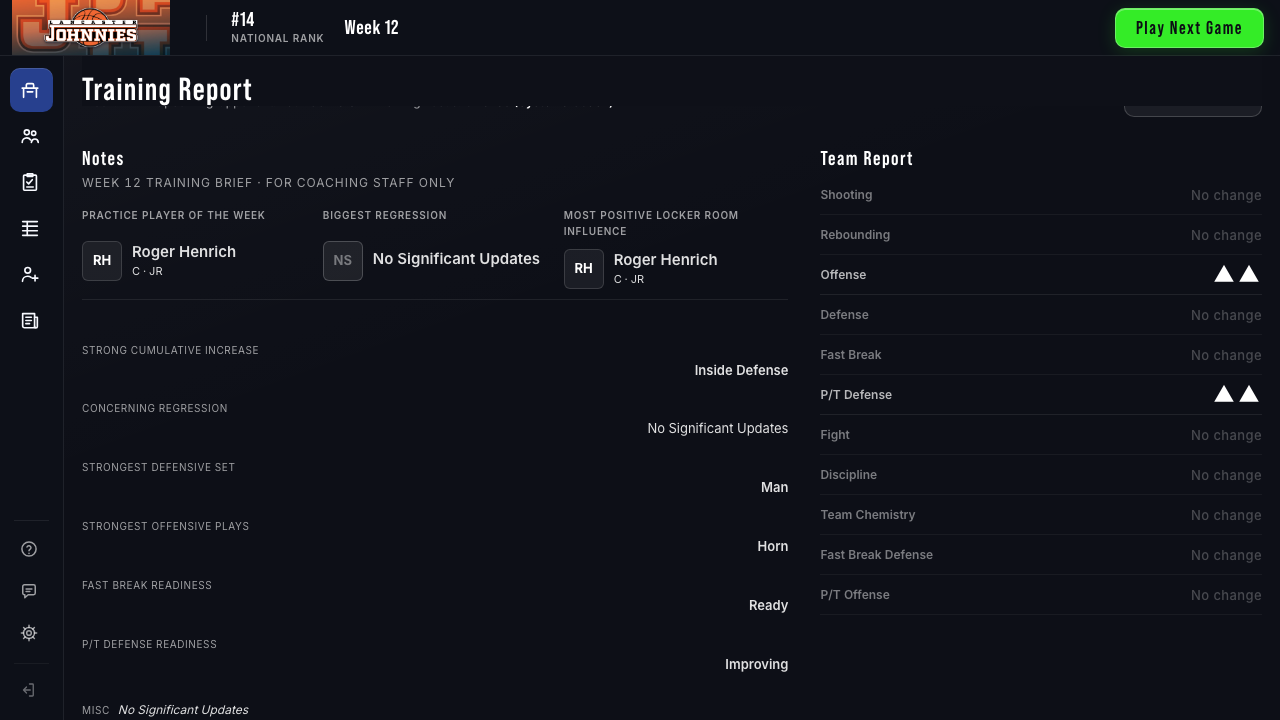
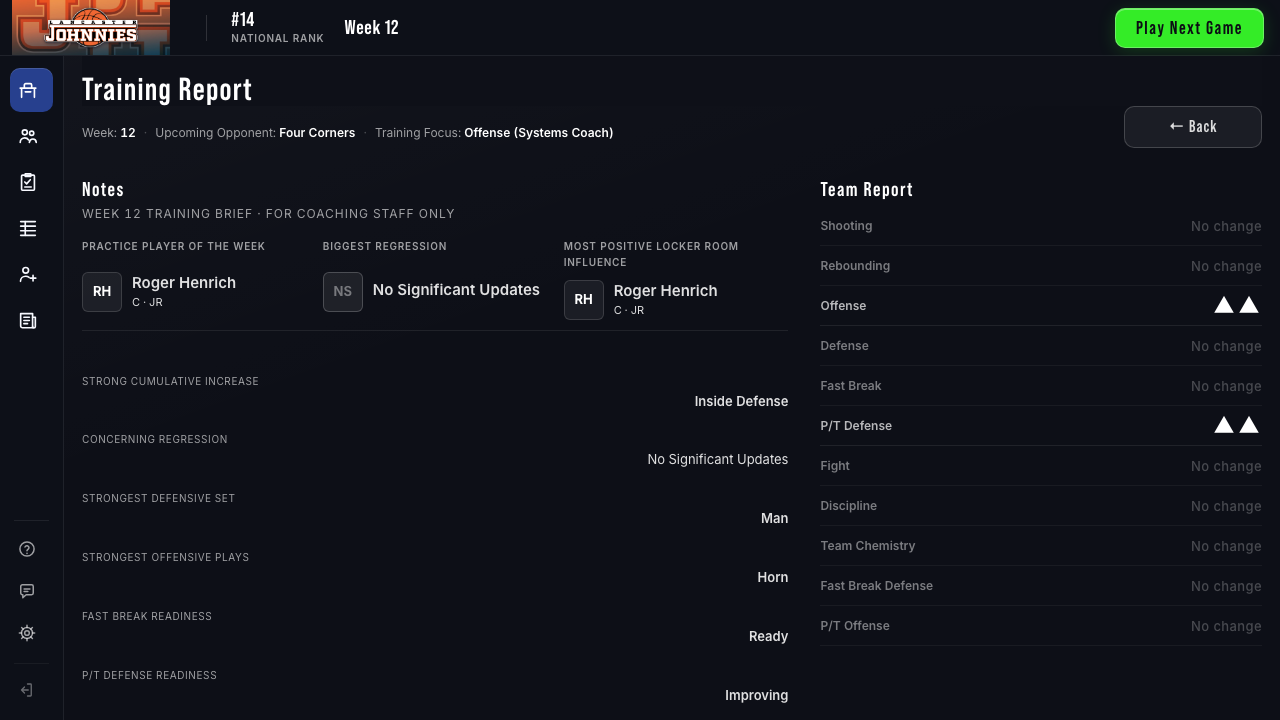
Neutralize PDG develops codes and retake Training Report shots at scroll 0.

diff --git a/tests/e2e/prep-modules-report.spec.js b/tests/e2e/prep-modules-report.spec.js
@@ -15,6 +15,17 @@ function alsoTokenShot(srcName, destName) {
   const src = path.join(OUT, srcName);
   if (fs.existsSync(src)) fs.copyFileSync(src, path.join(TOKENS_OUT, destName || srcName));
 }
+
+async function resetReportScroll(page) {
+  await page.evaluate(() => {
+    window.scrollTo(0, 0);
+    const view = document.getElementById('training-report-view');
+    if (view) view.scrollTop = 0;
+    const main = document.getElementById('gob-main');
+    if (main) main.scrollTop = 0;
+    document.querySelectorAll('.main, .main.scroll').forEach((el) => { el.scrollTop = 0; });
+  });
+}
 const HEADSHOT = fs.readFileSync(path.join(__dirname, '../../FrontEnd/static/images/players/generic_headshot.png'));
 const BEFORE = JSON.parse(fs.readFileSync(path.join(OUT, 'before-metrics.json'), 'utf8'));
 
@@ -237,12 +248,10 @@ test('Office drill-in: real data, Back, no Player Training highlight', async ({ 
   }
   const nitShots = path.join(__dirname, '../../reports/training-report-no-momentum');
   fs.mkdirSync(nitShots, { recursive: true });
-  await page.locator('#training-report-view .team-section').screenshot({
-    path: path.join(nitShots, 'team-report-after-1280.png'),
-  });
   await expect(page.getByRole('button', { name: '← Back', exact: true })).toBeVisible();
   await expect(page.locator('#gob-subtabs .tb[data-tab="training-view"][aria-selected="true"]')).toHaveCount(0);
   await expect(page.locator('html')).not.toHaveClass(/gob-office/);
+  await resetReportScroll(page);
   await page.screenshot({ path: path.join(OUT, 'training-report-office-1280.png') });
   await page.screenshot({ path: path.join(OUT, 'training-report-after-1280.png') });
   alsoTokenShot('training-report-after-1280.png', 'after-report-1280.png');
@@ -254,9 +263,13 @@ test('Office drill-in: real data, Back, no Player Training highlight', async ({ 
   if (await team.count()) {
     await team.first().screenshot({ path: path.join(TOKENS_OUT, 'after-report-team-1280.png') });
   }
+  await page.locator('#training-report-view .team-section').screenshot({
+    path: path.join(nitShots, 'team-report-after-1280.png'),
+  });
 
   await page.setViewportSize({ width: 1920, height: 1080 });
   await expect(page.locator('#training-report-view #week-number')).toHaveText('12');
+  await resetReportScroll(page);
   await page.screenshot({ path: path.join(OUT, 'training-report-office-1920.png') });
   await page.screenshot({ path: path.join(OUT, 'training-report-after-1920.png') });
   alsoTokenShot('training-report-after-1920.png', 'after-report-1920.png');

diff --git a/FrontEnd/static/css/player-development-grid.css b/FrontEnd/static/css/player-development-grid.css
@@ -164,7 +164,7 @@
 /* One accent, on the CODE only. The value stays white: colour on a rating already means
    how good he is (red / yellow / green / blue by displayed tier), and reusing those hues
    for training efficiency would make the same colour mean two things on the same attribute. */
-.pdg-hc-attr.is-develops b { color: var(--orange); } /* colour-law: committed */
+.pdg-hc-attr.is-develops b { color: var(--text-87); }
 .pdg-hc-attr i {
   font: 700 12px/1 'Inter', sans-serif;
   font-style: normal;

diff --git a/tests/test_player_development_grid.py b/tests/test_player_development_grid.py
@@ -328,8 +328,9 @@ def test_the_accent_is_on_the_code_and_never_the_value():
     two things on the same attribute, one click apart."""
     css = (S / "css" / "player-development-grid.css").read_text()
     develops = css[css.index(".pdg-hc-attr.is-develops b"):]
-    assert "var(--orange)" in develops[:develops.index("}")]
-    assert "colour-law: committed" in develops[:develops.index("}") + 40]
+    assert "var(--text-87)" in develops[:develops.index("}")]
+    assert "var(--orange)" not in develops[:develops.index("}")]
+    assert "colour-law:" not in develops[:develops.index("}") + 40]
     assert ".pdg-hc-attr.is-develops i" not in css
     block = css[css.index(".pdg-hc-attr i {"):]
     assert "var(--text-100)" in block[:block.index("}")]

diff --git a/reports/prep-training-tokens-2026-09-30.md b/reports/prep-training-tokens-2026-09-30.md
@@ -7,7 +7,7 @@ Visual-only. Colour law wins over frames (Jamie).
 
 Player Training and Training Report now sit on `gob-tokens` / UX_System colour law.
 
-- Raw green / orange / reward-gold chrome is gone except the allow-list: Advance green (`#play-now` / `#submit-btn.advance`), positive-data pill fills, committed orange (Assign + “develops” codes).
+- Raw green / orange / reward-gold chrome is gone except the allow-list: Advance green (`#play-now` / `#submit-btn.advance`), positive-data pill fills, committed orange (custom-focus Assign only).
 - Choice controls (sliders, radios, playbook segment, focus chips) are neutral.
 - `▲` glyphs are white (Jamie). Only data bands may be green.
 - Player headshots are square (`--radius-6`).
@@ -66,6 +66,12 @@ Served from `_documentation_master/projects` so frame CSS loaded. Jamie: law win
 - `training.js`: dropped unused drill `color` hex; no inline gold/orange; `--arch` stays `var(--text-38)`.
 - `training-report.js`: notes hero accents → tokens; ups use `change-delta`; momentum/playbook fills use tokens; placeholder `--text-38`.
 
+## Follow-up (2026-09-30, pre-merge)
+
+**1. Report header overlap.** Not a layout regression. At `window.scrollY === 0` and `#training-report-view` / `#gob-main` scrolled to top, title, meta line, and Back do not overlap (measured in the office drill-in). The first `after-report-1280.png` was taken after Playwright scrolled `.team-section` into view for a crop; `.training-report-page .report-header` is sticky, so the meta line and Back slid under the shell title. Retook `after-report-1280.png` and `after-report-1920.png` at scroll 0. The office test now resets `.main` / view scroll before those full-page shots.
+
+**2. Player Development “develops” codes.** Information, not a committed control. The hover card copy is `{position} · {focusLabel} develops {codes}` (or `adds {codes}` when the focus is not Standard). That names which attributes the training-matrix profile raises for that position + focus. The focus itself is a roster choice; the orange was on the derived codes, which are a read-out. Neutralized to `--text-87`. `tests/test_player_development_grid.py` now asserts that token and no `colour-law: committed`.
+
 ## e2e
 
 Computed-style guards (not class names):
@@ -93,9 +99,9 @@ All under `reports/prep-training-tokens/`. After shots taken at the listed viewp
 
 ## Gates
 
-- `.venv` via `../gob-simplified/.venv/bin/python -m pytest --ignore=tests/e2e -q`: **4180 passed**, 14 skipped, 109 xfailed, **1 xpassed** (`test_leaders_view_scope_filters_to_user_conference` — known; list not edited). **0 failed.**
-- Targeted Playwright (training + report specs, workers=1) after the Back-colour fixture restore: geometry + new computed-style guards **green**.
-- Full Playwright (`env -u CI PORT=8175 BASE_URL=http://localhost:8175 … --workers=1`): **755 passed**, 4 skipped, **0 failed** (10.8m). Earlier 8173 run was 753/2 on the headshot harness (no `.gob`); `var(--radius-6, 6px)` fallback fixed it.
+- `.venv` via `../gob-simplified/.venv/bin/python -m pytest --ignore=tests/e2e -q`: **4180 passed**, 14 skipped, 109 xfailed, **1 xpassed** (`test_leaders_view_scope_filters_to_user_conference` — known; list not edited). **0 failed.** (A sandbox rerun without `PLAYWRIGHT_BROWSERS_PATH` failed 3 screenshot/loopback tests; those 3 pass with the cache path set.)
+- Targeted Playwright (training + report specs, workers=1, PORT=8177): **18 passed**.
+- Full Playwright (`env -u CI PORT=8178 BASE_URL=http://localhost:8178 … --workers=1`): **755 passed**, 4 skipped, **0 failed** (11.1m).
 - `scripts/check_ui_tokens.py --strict --no-write`: **exit 0**, new-design law **0**.
 - `scripts/ci/check_migration_gates.py`: **pass**. Gate A 0/0, Gate B 136/44. `--write-allowlist` not used.
 
@@ -112,7 +118,7 @@ All under `reports/prep-training-tokens/`. After shots taken at the listed viewp
 - `scripts/check_ui_tokens.py`
 - `tests/e2e/prep-modules-training.spec.js`
 - `tests/e2e/prep-modules-report.spec.js`
-- `tests/test_player_development_grid.py` (asserts `--orange` + colour-law comment instead of raw `#F79420`)
+- `tests/test_player_development_grid.py` (develops codes are `--text-87`, not committed orange)
 - `reports/prep-training-tokens-2026-09-30.md`
 - `reports/prep-training-tokens/*`
 
